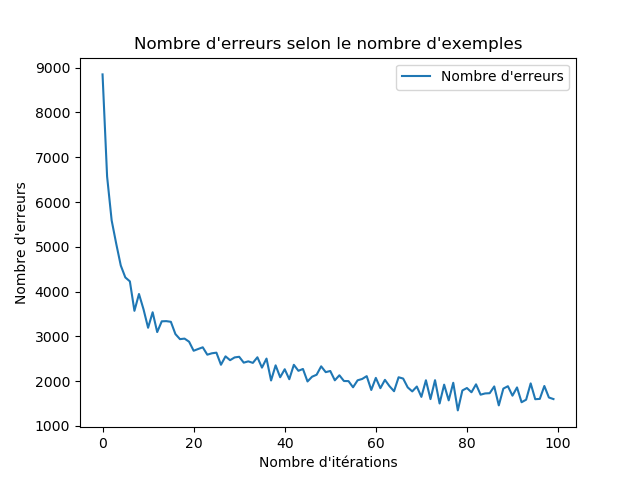
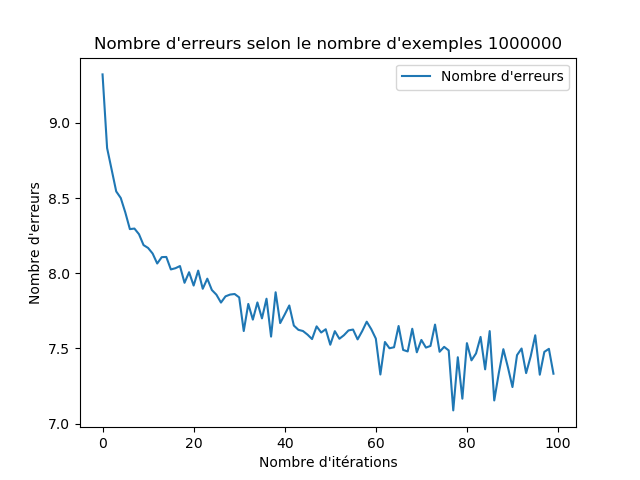
Réparation d'erreurs ...

diff --git a/lib/Stats.cpp b/lib/Stats.cpp
@@ -11,8 +11,8 @@ namespace plt = matplotlibcpp;
 
 void Stats::getPlotErrorByItr(std::vector<std::pair<std::pair<double, double>, int>>& data_train) {
     std::cout << "[INFO] Generation du plot 'ErrorByIteration'" << std::endl;
-    std::vector<int> err = std::vector<int>();
-    std::vector<int> iteration = std::vector<int>();
+    std::vector<double> err = std::vector<double>();
+    std::vector<double> iteration = std::vector<double>();
 
     /**
      * On entraine notre algorithme
@@ -24,13 +24,13 @@ void Stats::getPlotErrorByItr(std::vector<std::pair<std::pair<double, double>, i
     std::vector<int> err_train = neurone.train(data_train, 100);
 
     for(int i =0;i<100;i++) {
-        err.push_back(err_train[i]);
+        err.push_back(std::log(err_train[i]));
         iteration.push_back(i);
     }
 
     std::map<std::string, std::string> keywords = {{"label", "Nombre d'erreurs"}};
     plt::plot(iteration, err, keywords);
-    plt::title("Nombre d'erreur selon l'itération");
+    plt::title("Nombre d'erreur selon l'itération ("+std::to_string(data_train.size())+" exemples)");
     plt::xlabel("Nombre d'itérations");
     plt::ylabel("Nombre d'erreurs");
     plt::legend();
@@ -46,8 +46,8 @@ void Stats::getPlotErrorByExemple(int max_exemple) {
     for(int i=0;i<=max_exemple;i++){
         std::cout << "[INFO] Generation du plot 'ErrorByExemple'" << std::endl;
         int nb_ex = std::pow(10,i);
-        std::vector<int> err = std::vector<int>();
-        std::vector<int> iteration = std::vector<int>();
+        std::vector<double> err = std::vector<double>();
+        std::vector<double> iteration = std::vector<double>();
 
         std::vector<std::pair<std::pair<double, double>, int>> data_train = Helper::gen_data(nb_ex);
         /**
@@ -59,7 +59,7 @@ void Stats::getPlotErrorByExemple(int max_exemple) {
         std::vector<int> err_train = neurone.train(data_train, 100);
 
         for(int j =0;j<err_train.size();j++) {
-            err.push_back(err_train[j]);
+            err.push_back(std::log(err_train[j]));
             iteration.push_back(j);
         }
 
@@ -67,7 +67,7 @@ void Stats::getPlotErrorByExemple(int max_exemple) {
         plt::clf();
         std::map<std::string, std::string> keywords = {{"label", "Nombre d'erreurs"}};
         plt::plot(iteration, err, keywords);
-        plt::title("Nombre d'erreurs selon le nombre d'exemples");
+        plt::title("Nombre d'erreurs selon le nombre d'exemples "+std::to_string(nb_ex));
         plt::xlabel("Nombre d'itérations");
         plt::ylabel("Nombre d'erreurs");
         plt::legend();
@@ -83,15 +83,16 @@ void Stats::getPlotErrorByExemple(int max_exemple) {
 void Stats::getPlorErrorByLearningStep(int max_exemple) {
 
     for(int w=0;w<=max_exemple;w++) {
-        std::cout << "[INFO] Generation du plot 'errorbylearning_step_'" << std::endl;
         int nb_ex = std::pow(10, w);
+        std::cout << "[INFO] Generation du plot 'errorbylearning_step_'" << std::to_string(nb_ex) << std::endl;
         plt::figure();
         std::vector<std::pair<std::pair<double, double>, int>> data_train = Helper::gen_data(nb_ex);
+        Helper::save_to_file(data_train, "../data/errorByLearningStep_nb_ex_"+std::to_string(nb_ex));
         Neurone::PAS_APPRENTISSAGE = 1;
         for (int i = 0; i <=4; i++) {
             Neurone::PAS_APPRENTISSAGE *= 0.1;
-            std::vector<int> err = std::vector<int>();
-            std::vector<int> iteration = std::vector<int>();
+            std::vector<double> err = std::vector<double>();
+            std::vector<double> iteration = std::vector<double>();
             /**
              * On entraine notre algorithme
              */
@@ -101,7 +102,7 @@ void Stats::getPlorErrorByLearningStep(int max_exemple) {
             std::vector<int> err_train = neurone.train(data_train, 100);
 
             for (int j = 0; j < err_train.size(); j++) {
-                err.push_back(err_train[j]);
+                err.push_back(std::log(err_train[j]));
                 iteration.push_back(j);
             }
 
@@ -118,6 +119,6 @@ void Stats::getPlorErrorByLearningStep(int max_exemple) {
         plt::legend();
         plt::save("../data/errorbylearning_step_"+std::to_string(nb_ex)+".png");
         plt::close();
-        std::cout << "[INFO] FIN Generation du plot 'errorbylearning_step_'" << std::endl;
+        std::cout << "[INFO] FIN Generation du plot 'errorbylearning_step_'" << std::to_string(nb_ex) << std::endl;
     }
 }

diff --git a/lib/Helper.cpp b/lib/Helper.cpp
@@ -32,7 +32,7 @@ std::vector<std::pair<std::pair<double, double>, int>> Helper::gen_data(int numb
 void Helper::show_data(std::ostream& os, std::vector<std::pair<std::pair<double, double>, int>>& data) {
     for(std::pair<std::pair<double,double>, int> item : data) {
 
-        os << item.first.first << " " << item.first.second << " : " << item.second << std::endl;
+        os << item.first.first << " " << item.first.second << " " << item.second << std::endl;
 
     }
 
@@ -50,4 +50,31 @@ void Helper::save_to_file(std::vector<std::pair<std::pair<double, double>, int>>
     ofs << ss.str();
 
     ofs.close();
+}
+
+std::vector<std::pair<std::pair<double, double>, int>> Helper::load_data(std::string& filename) {
+
+    std::ifstream iss;
+    iss.open(filename);
+
+    std::string line;
+    std::vector<std::pair<std::pair<double,double>,int>> res{};
+
+    while(std::getline(iss, line)) {
+
+        std::pair<std::pair<double,double>,int> tmp{};
+        std::string subline;
+        std::getline(iss, subline, ' ');
+        tmp.first.first = std::stod(subline);
+        std::getline(iss, subline, ' ');
+        tmp.first.second = std::stod(subline);
+        std::getline(iss, subline, ' ');
+        tmp.second = std::stoi(subline);
+
+        res.push_back(tmp);
+
+    }
+
+    return res;
+
 }

diff --git a/main.cpp b/main.cpp
@@ -3,14 +3,25 @@
 #include "./lib/Stats.hpp"
 #include "./src/Neurone.hpp"
 
-double Neurone::PAS_APPRENTISSAGE = 0.01;
+//double Neurone::PAS_APPRENTISSAGE = 0.0001;
+double Neurone::PAS_APPRENTISSAGE = 0.1;
 
-int main() {
+int main(int argc, char *argv[]) {
+    std::vector<std::pair<std::pair<double, double>, int>> data_train;
+
+    //Juste l'exécutable
+    if(argc == 1) {
+        data_train = Helper::gen_data(50);
+        Helper::save_to_file(data_train, "../data/errorByLearningStep_nb_ex_"+std::to_string(50));
+    } else if(argc == 2) {
+        std::string test = argv[1];
+        data_train = Helper::load_data(test);
+    }
 
     /**
      * Affichage des erreurs selon le nombre d'itérations
      */
-    std::vector<std::pair<std::pair<double, double>, int>> data_train = Helper::gen_data(700);
+
     Stats::getPlotErrorByItr(data_train);
     Stats::getPlotErrorByExemple(6);
     Stats::getPlorErrorByLearningStep(6);

diff --git a/src/Neurone.cpp b/src/Neurone.cpp
@@ -8,7 +8,7 @@ int Neurone::calc_sortie(std::pair<std::pair<double, double>, int>& exemple) {
 
     double sigma = (exemple.first.first*poids[0]+exemple.first.second*poids[1]) - biais;
 
-    return (sigma > 0) ? 1 : -1;
+    return (sigma >= 0) ? 1 : -1;
 }
 
 void Neurone::mise_a_jour(std::pair<std::pair<double, double>, int> & exemple) {
@@ -35,8 +35,11 @@ std::vector<int> Neurone::train(std::vector<std::pair<std::pair<double, double>,
                 nb_error_cpt++;
             }
         }
-
+        if(nb_error_cpt == 0)
+            break;
         nb_error.push_back(nb_error_cpt);
+
+
 
     }
     return nb_error;

diff --git a/lib/Helper.hpp b/lib/Helper.hpp
@@ -11,6 +11,7 @@
 class Helper {
 public:
     static std::vector<std::pair<std::pair<double, double>, int>> gen_data(int);
+    static std::vector<std::pair<std::pair<double, double>, int>> load_data(std::string&);
     static void show_data(std::ostream& os,std::vector<std::pair<std::pair<double, double>, int>>&);
     static void save_to_file(std::vector<std::pair<std::pair<double, double>, int>>&,std::string);
 };
